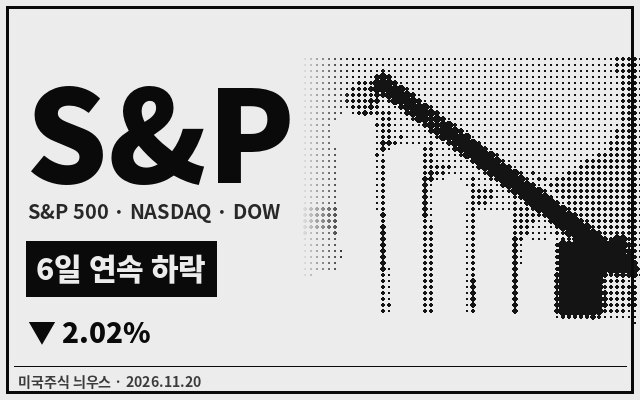
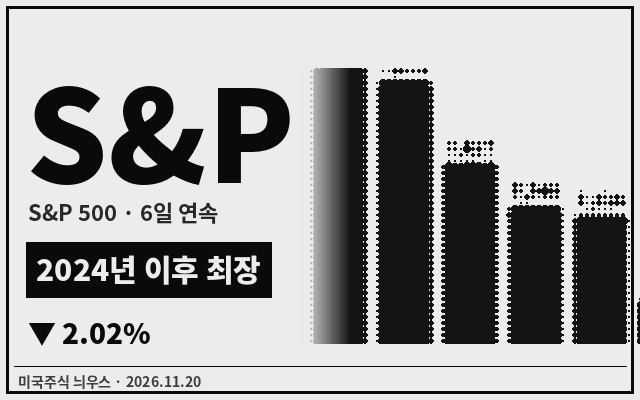
1면 그림: 추상 3D 대신 실제 숫자 흑백 그래픽(ANT 첫날 주요 가격 · S&P 7일 종가)
Claude-Session: https://claude.ai/code/session_01XJFm6WUYWmdVwYJXuLXBE7

diff --git a/scripts/top_graphic_1120.py b/scripts/top_graphic_1120.py
@@ -1,0 +1,40 @@
+"""2026-11-20 1면 그림: 실제 숫자로 그린 흑백 신문 그래픽 (추상 3D 소품 대신)."""
+from PIL import Image, ImageDraw, ImageFont
+B='/usr/share/fonts/opentype/noto/NotoSansCJK-Black.ttc'; BD='/usr/share/fonts/opentype/noto/NotoSansCJK-Bold.ttc'; SR='/usr/share/fonts/opentype/noto/NotoSerifCJK-Bold.ttc'
+F=lambda p,s:ImageFont.truetype(p,s,index=1 if 'Sans' in p else 0)
+W,H=1200,750; PAPER=236; INK=18
+im=Image.new('L',(W,H),PAPER); d=ImageDraw.Draw(im)
+d.rectangle((8,8,W-9,H-9),outline=INK,width=3)
+d.line((W//2,40,W//2,H-60),fill=INK,width=2)
+# 왼쪽: 앤트로픽 첫날 주요 가격
+d.text((40,32),'ANT',font=F(B,120),fill=INK)
+d.text((44,175),'앤트로픽 · 나스닥 상장 첫날',font=F(BD,30),fill=50)
+pts=[('공모가',83.0),('첫 체결',111.50),('장중 고가',114.99),('종가',97.17)]
+x0,x1,y0,y1=100,520,580,290; lo,hi=75,120
+P=[(x0+i*(x1-x0)/3, y0-(v-lo)/(hi-lo)*(y0-y1)) for i,(_,v) in enumerate(pts)]
+d.line((x0,y0-(83-lo)/(hi-lo)*(y0-y1),x1,y0-(83-lo)/(hi-lo)*(y0-y1)),fill=150,width=2)
+d.line(P,fill=INK,width=7,joint='curve')
+for (lab,v),(x,y) in zip(pts,P):
+    d.ellipse((x-11,y-11,x+11,y+11),fill=INK)
+    t=f'{v:.2f}달러' if v!=83 else '83달러'
+    for txt,yy,fn in ((t,y-42,F(B,28)),(lab,y+38,F(BD,22))):
+        bb=d.textbbox((x,yy),txt,font=fn,anchor='mm'); d.rectangle((bb[0]-6,bb[1]-4,bb[2]+6,bb[3]+4),fill=PAPER)
+        d.text((x,yy),txt,font=fn,fill=INK if fn.size==28 else 60,anchor='mm')
+d.rectangle((40,668,330,718),fill=INK); d.text((56,672),'공모가 대비 +17.1%',font=F(B,30),fill=PAPER)
+# 오른쪽: S&P 500 최근 7일 종가(6일 연속 하락)
+d.text((640,32),'S&P 500',font=F(B,96),fill=INK)
+d.text((644,150),'6거래일 연속 하락 · 2024년 이후 최장',font=F(BD,30),fill=50)
+days=['11/11','11/12','11/13','11/16','11/17','11/18','11/19']
+cl=[7619.4,7592.4,7561.7,7416.6,7340.5,7323.6,7175.8]
+bx0,bx1,by0,by1=650,1160,600,250; lo,hi=7100,7650
+bw=(bx1-bx0)/7
+for i,(dd,v) in enumerate(zip(days,cl)):
+    x=bx0+i*bw; top=by0-(v-lo)/(hi-lo)*(by0-by1)
+    d.rectangle((x+8,top,x+bw-8,by0),fill=INK if i==6 else 110)
+    d.text((x+bw/2,top-20),f'{v:,.0f}',font=F(BD,20),fill=INK,anchor='mm')
+    d.text((x+bw/2,by0+22),dd,font=F(BD,20),fill=60,anchor='mm')
+d.rectangle((640,668,950,718),fill=INK); d.text((656,672),'하루 -2.02% · 7,176',font=F(B,30),fill=PAPER)
+d.text((W-24,H-22),'미국주식 늬우스 · 2026.11.20 · 시세: 야후 파이낸스 · AP',font=F(BD,16),fill=90,anchor='rm')
+im.convert('RGB').save('img/2026-11-20-top.jpg',quality=88)
+# 간밤 뉴스용 S&P 그림(같은 막대, 작게)
+sp=im.crop((640,262,1170,630)).convert('RGB'); sp.save('/tmp/spxbars.png')

diff --git a/scripts/render_props.py b/scripts/render_props.py
@@ -207,42 +207,6 @@ def cyber():
     cam.location = (0.3, -9.4, 4.0); aim(cam, (0.2, 0, 1.5)); render('cyber', sc)
 
 
-def d1120_top():  # 2026-11-20 1면: 앤트로픽 상장 축포 vs S&P 500 6일 연속 하락 계단
-    sc, cam = base_scene()
-    sc.render.resolution_x, sc.render.resolution_y = 1200, 750
-    # 오른쪽: 6칸 내려가는 계단(6거래일)
-    for i in range(6):
-        h = 2.9 - i * 0.42
-        box((0.6 + i * 0.62, 0.4, h / 2), (0.58, 1.6, h), mat('navy' if i < 5 else 'coral', 0.1, 0.4), 0.04)
-    arrow((0.9, -0.7, 3.6), (4.2, -0.9, 1.0), 0.12, mat('coral'))
-    # 왼쪽: 받침대 위로 솟는 로켓(상장 첫날 급등)
-    box((-2.6, 0.2, 0.3), (1.6, 1.6, 0.6), mat('white'), 0.06)
-    cyl((-2.6, 0.2, 2.0), 0.42, 2.2, mat('white', rough=0.3))
-    cone((-2.6, 0.2, 3.45), 0.42, 0.0, 0.75, mat('gold', 0.9, 0.2))
-    for a in range(3):
-        ang = a * 2.094
-        box((-2.6 + 0.45 * math.cos(ang), 0.2 + 0.45 * math.sin(ang), 1.1), (0.08, 0.5, 0.7), mat('coral'), 0.02, rot=(0, 0, ang))
-    cyl((-2.6, 0.2, 2.35), 0.2, 0.06, mat('blue'), rot=(math.radians(90), 0, 0))
-    cone((-2.6, 0.2, 0.75), 0.28, 0.05, 0.5, mat('gold', 0.0, 0.5, 2.5), rot=(math.radians(180), 0, 0))
-    import random; random.seed(20)
-    for i in range(40):  # 색종이
-        x, z = random.uniform(-4.6, -0.8), random.uniform(1.2, 5.0)
-        if abs(x + 2.6) < 0.7 and z < 3.9: continue
-        box((x, random.uniform(-0.4, 1.4), z), (0.2, 0.04, 0.13), mat(random.choice(['coral', 'gold', 'teal'])), 0.0,
-            rot=(random.uniform(0, 3), random.uniform(0, 3), random.uniform(0, 3)))
-    cam.location = (0.2, -12.5, 4.6); cam.data.lens = 44; aim(cam, (0.2, 0.2, 2.0)); render('d1120_top', sc)
-
-
-def stairs():  # 연속 하락 계단(지수 며칠째 하락)
-    sc, cam = base_scene()
-    for i in range(6):
-        h = 3.0 - i * 0.45
-        box((-1.6 + i * 0.66, 0.3, h / 2), (0.6, 1.4, h), mat('white' if i < 5 else 'navy', 0.0, 0.5), 0.04)
-    sphere((-1.6, 0.3, 3.25), 0.25, mat('coral'))
-    arrow((-1.2, -0.8, 3.6), (2.4, -1.0, 0.9), 0.12, mat('navy'))
-    cam.location = (0.3, -9.6, 4.2); aim(cam, (0.0, 0.3, 1.6)); render('stairs', sc)
-
-
-SCENES = {'cyber': cyber, 'nvda': nvda, 'fed': fed, 'ipo': ipo, 'health': health, 'memory': memory, 'gold_oil': gold_oil, 'd1120_top': d1120_top, 'stairs': stairs}
+SCENES = {'cyber': cyber, 'nvda': nvda, 'fed': fed, 'ipo': ipo, 'health': health, 'memory': memory, 'gold_oil': gold_oil}
 for k, f in SCENES.items():
     if not ONLY or k in ONLY: f()

diff --git a/docs/PROMPT.md b/docs/PROMPT.md
@@ -21,7 +21,7 @@
 - 호 조립은 `data/build_issue2.py`처럼 앞 호 틀을 돌린 뒤 글·일정·의견만 그날 것으로 바꾸는 방식(새 파일 `data/build_issue{no}.py`).
 
 ## 1면 그림 · 뉴스 점검망 (2026-11-20 발행인 지시)
-- **1면 메인 그림은 매일 새로 만든다.** 전날 호와 같은 그림·같은 소품(assets/props)·같은 구도 금지. 그날 이야기에 맞는 새 장면을 `scripts/render_props.py`에 함수로 추가해 블렌더로 렌더(`pip install bpy==5.2.3`)하고 `img/D-top.jpg`로 쓴다. 발행 전 `archive/어제.json`의 `top.img`와 나란히 놓고 한눈에 달라 보이는지 확인.
+- **1면 메인 그림은 매일 새로, 그날 실제 숫자로 그린 흑백 신문 그래픽.** 추상적인 3D 소품·상징 그림(로켓·계단·종 같은 것) 금지(발행인 지시, 11/20 재지적). 1면 기사에 나온 종목 티커를 크게, 그 종목·지수의 실제 가격 흐름(주요 가격, 최근 며칠 종가 막대 등)과 핵심 숫자 박스로 구성. 예: `scripts/top_graphic_1120.py` → `img/D-top.jpg`. 전날 호 그림과 구성·차트 종류가 겹치지 않게 나란히 놓고 확인.
 - 간밤 뉴스 카드끼리도 같은 소품을 두 번 쓰지 않는다. 모자라면 새 소품을 렌더한다.
 - **뉴스 점검망 — 큰 움직임은 이유를 반드시 찾는다.** 마감 정리 기사(AP 등) 하나만 보고 끝내지 않는다.
   1. `data/tm_daily.json`(S&P 상위 100)과 `data/movers_raw.txt`에서 ±5% 이상, 또는 상위 20 종목 중 ±3% 이상 움직인 종목을 전부 뽑는다.
